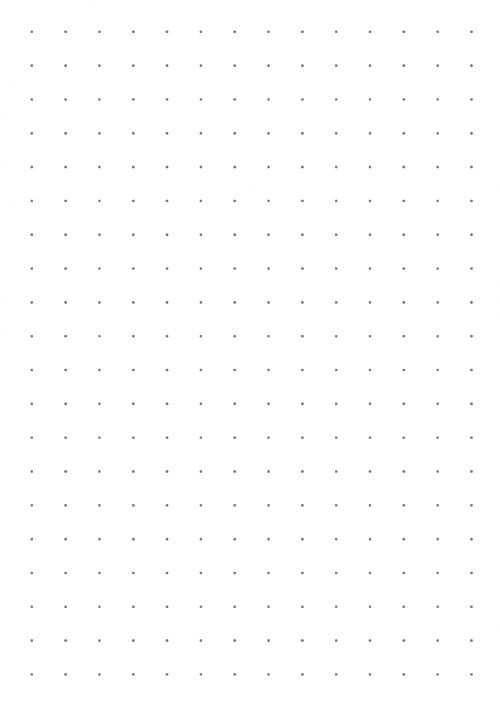
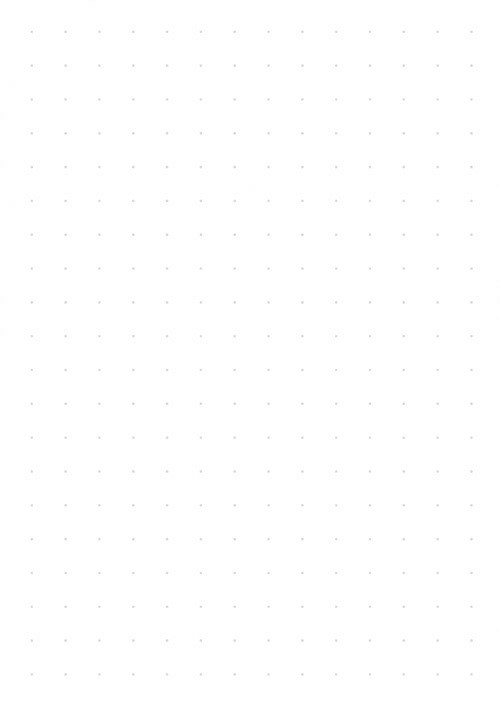
savePostHandler finished

diff --git a/public/js/savePost.js b/public/js/savePost.js
@@ -1,8 +1,13 @@
-function savePostHandler(event) {
+const savePostHandler = async (event) => {
     event.preventDefault();
     
-    const post_id = document.querySelector('#username-login').value.trim();
-    const user_id = document.querySelector('#password-login').value.trim();
+    let finder = event.target.id
+    let savePostIndex = finder.split(',')
+    let post_id = savePostIndex[0];
+    let user_id = savePostIndex[1];
+
+    console.log(savePostIndex[0])
+    console.log(savePostIndex[1])
     
     fetch('/api/saved-posts', {
       method: 'POST',

diff --git a/public/css/style.css b/public/css/style.css
@@ -261,7 +261,7 @@ p {
 }
 
 .post-content {
-  background-image: url(../assets/images/dot-paper.png);
+  /* background-image: url(../assets/images/dot-paper.png); */
   background-repeat: no-repeat;
   background-size: cover;
   /* background lined notes */
